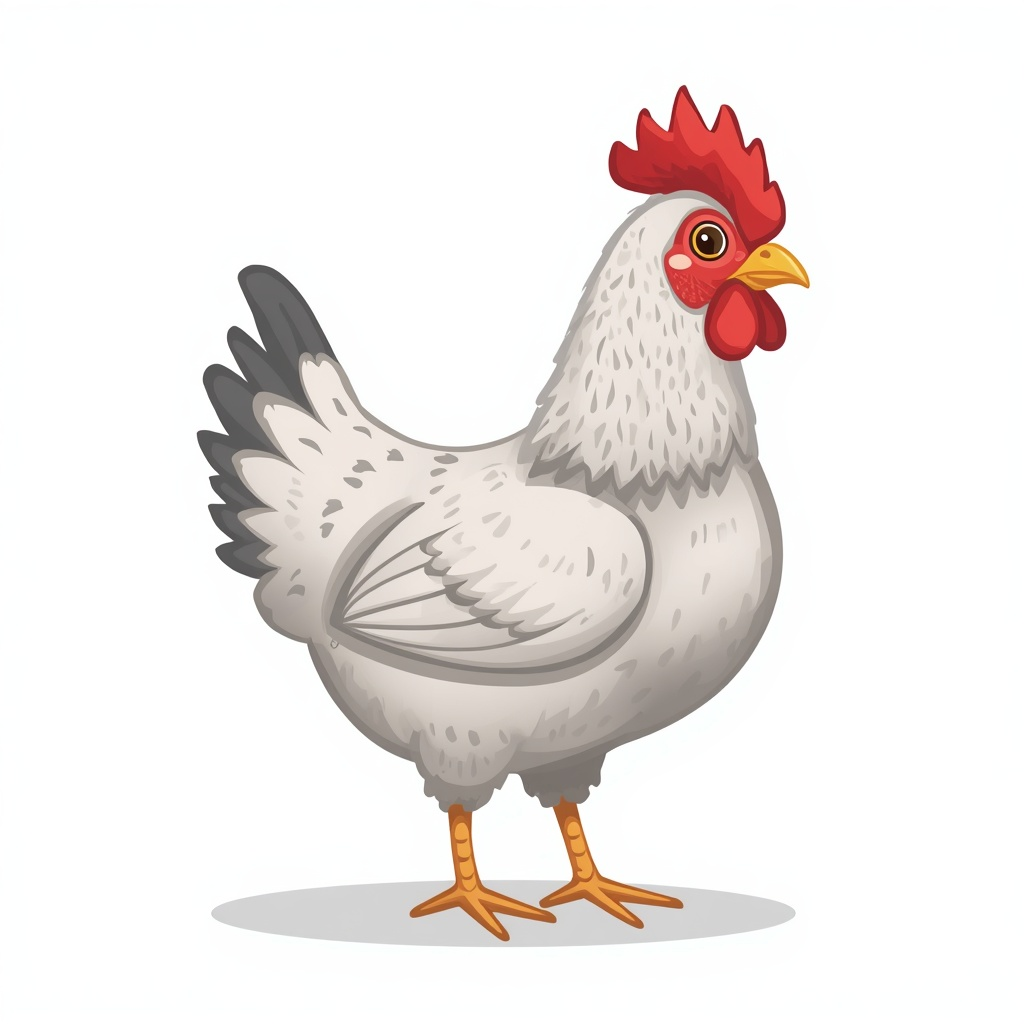
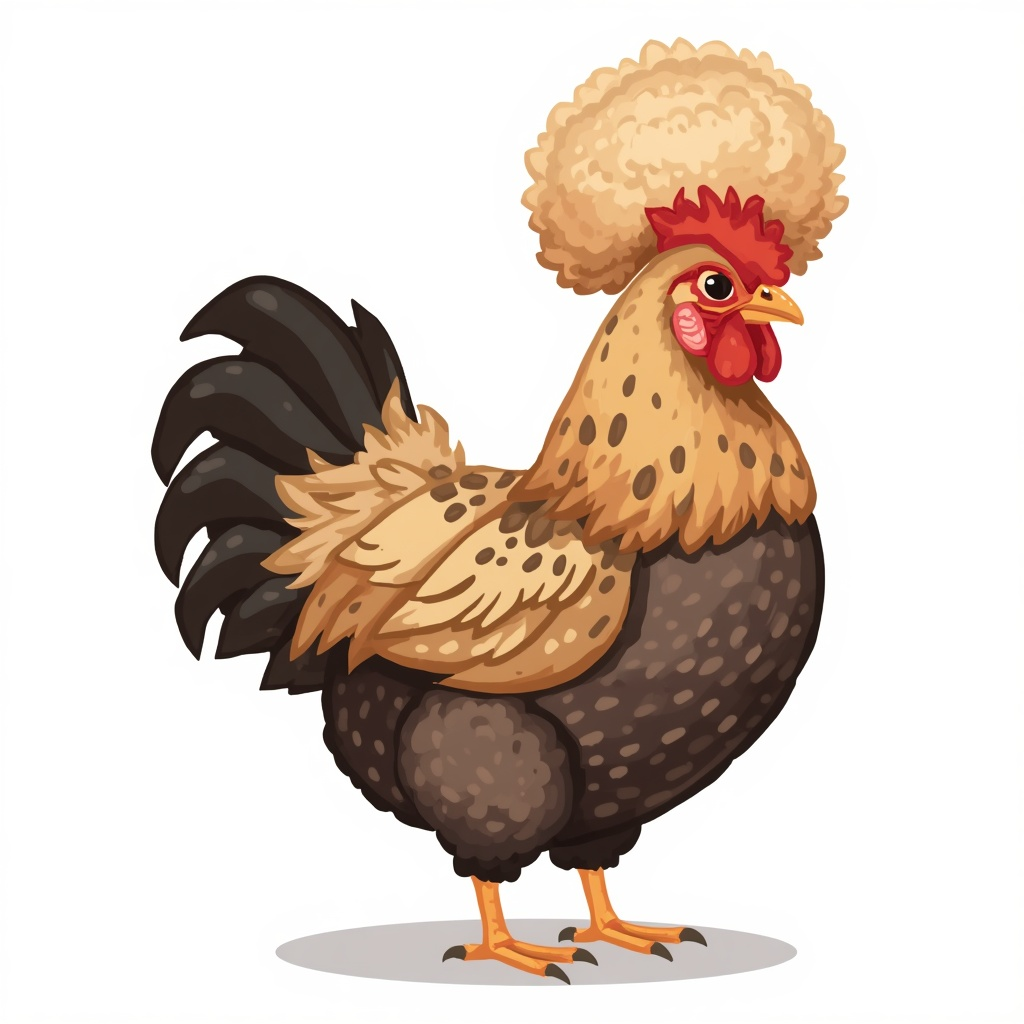
Переснять павловскую — временных картинок не осталось
Прошлая вышла третьей белой курицей без хохла: в запросе цвет стоял
перед словом hen, а хохол шёл третьим признаком, и генератор его
проглотил. Переставил хохол в начало, цвет после существительного —
и хохол-помпон на тёмном теле теперь различим даже в игровом размере.

Claude-Session: https://claude.ai/code/session_013ovumMuRfj2SmgMR5kzGwz

diff --git a/docs/ART-TODO.md b/docs/ART-TODO.md
@@ -33,7 +33,7 @@ python3 tools/import-art.py картинка.png <id>
 
 ## Список
 
-Все девятнадцать заменены присланными картинками; одна из кур временная.
+Все девятнадцать заменены присланными картинками, временных не осталось.
 
 | Готово | Файл | Порода | Постройка | Уровень | Как выглядит |
 |:---:|---|---|---|:---:|---|
@@ -42,7 +42,7 @@ python3 tools/import-art.py картинка.png <id>
 | ✅ | `breed-leggorn.png` | Леггорн | Курятник | 3 | Белая, высокая, крупный гребень набок |
 | ✅ | `breed-tula.png` | Тульский бойцовый | Гусятник | 4 | Серый гусь |
 | ✅ | `breed-orlov.png` | Орловская ситцевая | Курятник | 4 | Пёстрая ситцевая, борода и баки |
-| ~ | `breed-pavlov.png` | Павловская | Курятник | 5 | Стоит временная: генератор не нарисовал ни хохла, ни мохнатых ног, и вышла третья белая птица |
+| ✅ | `breed-pavlov.png` | Павловская | Курятник | 5 | Кремовый хохол-помпон, тёмное тело в крапинку |
 | ✅ | `breed-vietnam.png` | Вьетнамская вислобрюхая | Свинарник | 5 | Чёрная свинья, брюхо до земли |
 | ✅ | `breed-kuchin.png` | Кучинская юбилейная | Курятник | 6 | Рыже-бурая, золотая шея |
 | ✅ | `breed-holmgus.png` | Холмогорский гусь | Гусятник | 7 | Белый гусь, шишка на клюве |
@@ -69,7 +69,7 @@ cute cartoon black hen with golden neck feathers and a red comb, 3/4 view facing
 Орловская ситцевая
 cute cartoon mottled orange white and black hen with a beard and thick cheek feathers, 3/4 view facing right, full body standing, hand-painted 2D casual game art, plain flat background
 
-Павловская — переснять: нужен хохол и не белая
+Павловская
 cute cartoon hen with a huge round fluffy feather crest covering the top of its head like a pompom, speckled black and gold plumage, thick feathers down its legs, tiny comb, 3/4 view facing right, full body standing, hand-painted 2D casual game art, plain flat background
 
 Кучинская юбилейная
@@ -135,7 +135,7 @@ cute cartoon farm horse with a brown coat, a black mane and tail, and thick shag
 клубничные, чем рыжие, но масть от холмогорской отличают уверенно.
 
 Курятник закрыт: шесть пород, у каждой своя масть — белая, чёрная, белая
-высокая, рыжая с белой головой, серебристая, рыжая в крапинку. Десять сначала
+высокая, рыжая с белой головой, тёмная с кремовым хохлом, рыжая. Десять сначала
 завели зря: разницу между третьей и четвёртой белой курицей в плитке всё равно
 не видно, а картинок на них уходит столько же.
 
